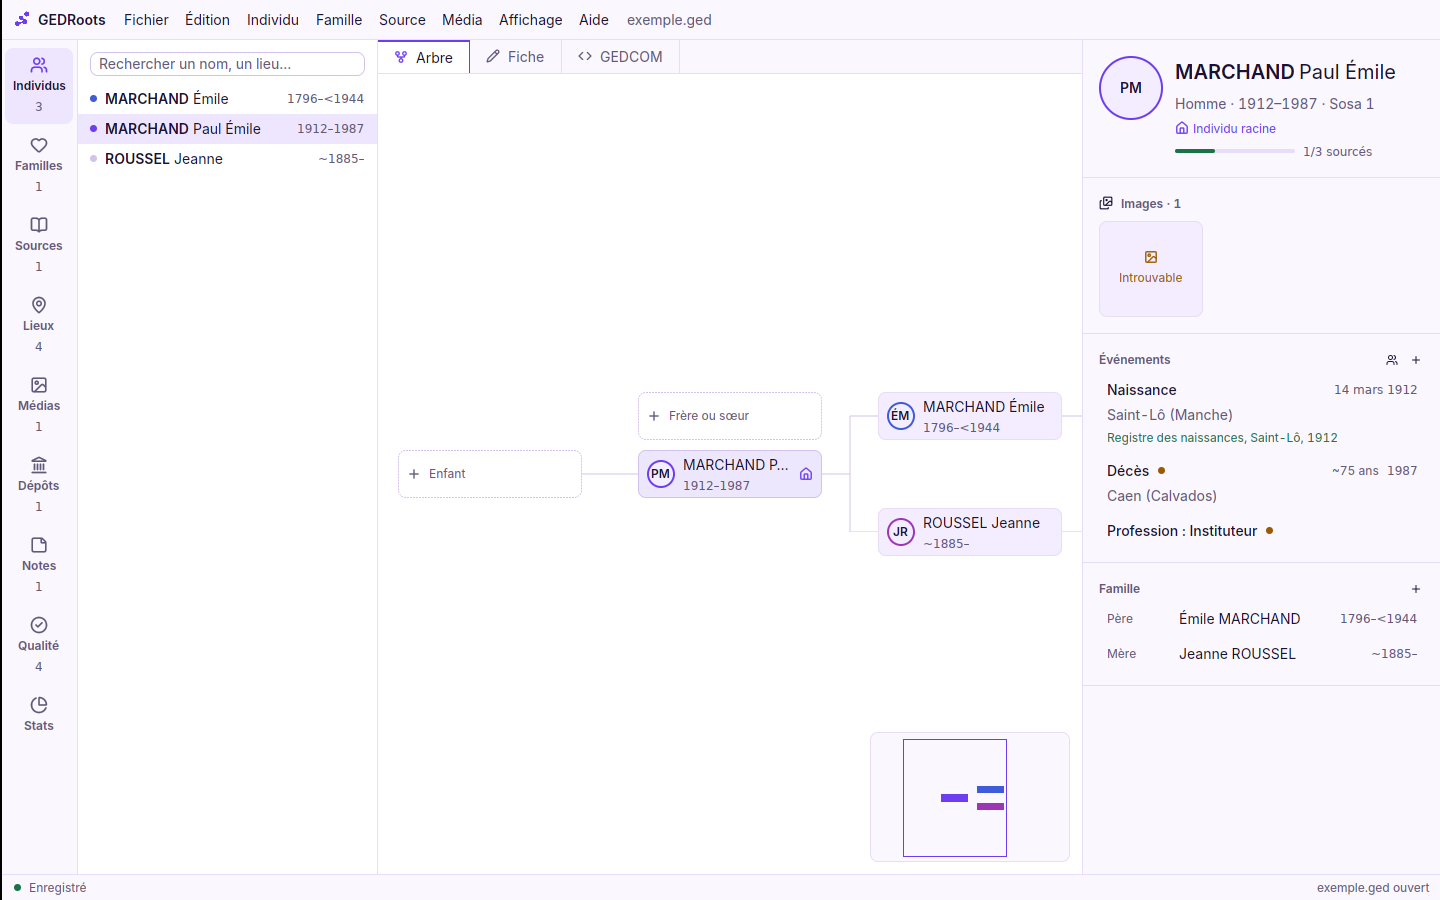
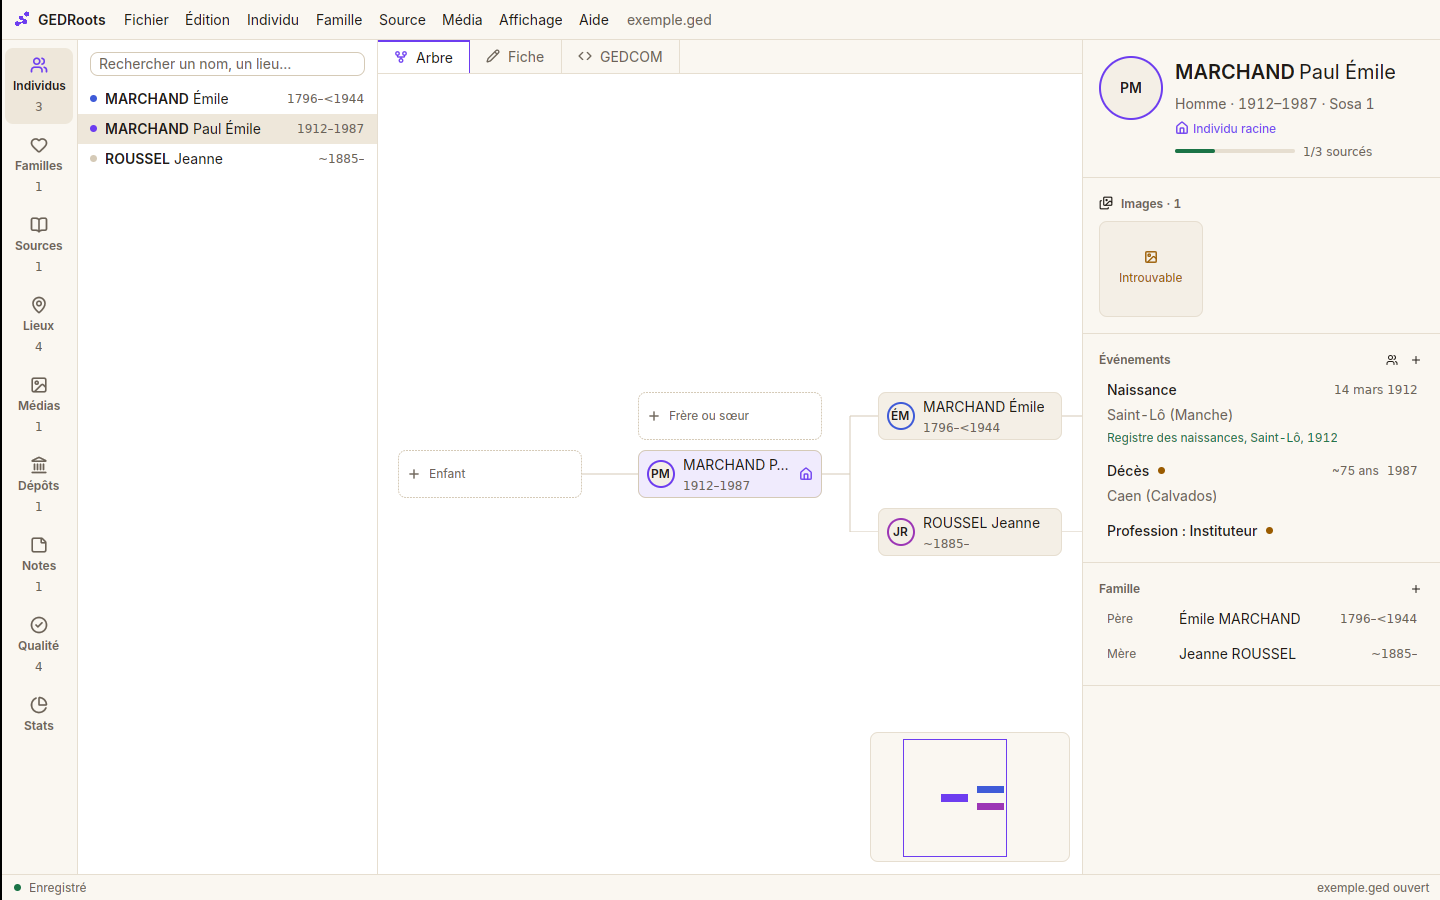
Fonds neutres (blanc et ocre, gris et noir), violet en accent seulement ; design.md à la racine
Claude-Session: https://claude.ai/code/session_01Y6gEeX7rZbAy25R2Bd5JVX

diff --git a/crates/gedroots/src/theme.rs b/crates/gedroots/src/theme.rs
@@ -1,6 +1,7 @@
 //! Design system GEDRoots : jetons de couleur (clair / sombre), typographie, espacements et rayons.
+//! Fonds neutres (blanc et ocre en clair, gris et noir en sombre) ; le violet n'est qu'un accent.
 //!
-//! Les valeurs viennent du kit de marque v1.0 (`docs/design-system.md`). Les vues n'emploient jamais
+//! Les valeurs viennent du kit de marque v1.0 (`design.md`). Les vues n'emploient jamais
 //! de couleur en dur : elles passent par les fonctions de ce module, qui lisent la palette du mode
 //! courant. Le mode suit l'apparence du système (`sync`), et chaque changement redessine les fenêtres.
 
@@ -39,13 +40,13 @@ struct Palette {
 
 const LIGHT: Palette = Palette {
     bg: 0xFFFFFF,
-    panel: 0xFAF7FF,
-    surface: 0xF3EDFF,
-    hover: 0xEEE5FF,
-    border: 0xE7DDF6,
-    border_strong: 0xD3C3EC,
-    text: 0x1B1133,
-    muted: 0x625878,
+    panel: 0xFAF7F1,
+    surface: 0xF4EFE6,
+    hover: 0xEEE7DA,
+    border: 0xE6DED0,
+    border_strong: 0xD5CAB7,
+    text: 0x1F1B16,
+    muted: 0x6B6257,
     accent: 0x6D3DF0,
     accent_hover: 0x5B2BDD,
     accent_pressed: 0x4C21B8,
@@ -58,18 +59,18 @@ const LIGHT: Palette = Palette {
 };
 
 const DARK: Palette = Palette {
-    bg: 0x160E2B,
-    panel: 0x1B1133,
-    surface: 0x251545,
-    hover: 0x301D57,
-    border: 0x3A2858,
-    border_strong: 0x493266,
-    text: 0xF7F1FF,
-    muted: 0xC8B7DF,
+    bg: 0x141414,
+    panel: 0x1A1A1A,
+    surface: 0x222222,
+    hover: 0x2B2B2B,
+    border: 0x2E2E2E,
+    border_strong: 0x3D3D3D,
+    text: 0xECECEC,
+    muted: 0xA3A3A3,
     accent: 0xB997FF,
     accent_hover: 0xC8AAFF,
     accent_pressed: 0xA77CF6,
-    on_accent: 0x1B1133,
+    on_accent: 0x1A1A1A,
     paternal: 0x8FA2FF,
     maternal: 0xE39BF0,
     ok: 0x6FD3A0,
@@ -130,7 +131,7 @@ pub fn accent() -> Hsla {
     c(p().accent)
 }
 pub fn accent_soft() -> Hsla {
-    with_alpha(accent(), if is_dark() { 0.18 } else { 0.12 })
+    with_alpha(accent(), if is_dark() { 0.16 } else { 0.10 })
 }
 pub fn on_accent() -> Hsla {
     c(p().on_accent)
@@ -152,19 +153,19 @@ pub fn warn() -> Hsla {
 pub fn danger() -> Hsla {
     c(p().danger)
 }
-/// Voile sous les fenêtres modales (encre de marque translucide).
+/// Voile sous les fenêtres modales.
 pub fn scrim() -> Hsla {
-    with_alpha(c(0x1B1133), if is_dark() { 0.6 } else { 0.4 })
+    with_alpha(c(0x000000), if is_dark() { 0.55 } else { 0.35 })
 }
 /// Fond des visionneuses d'images : sombre dans les deux modes, pour juger les documents.
 pub fn viewer() -> Hsla {
-    c(0x120B24)
+    c(0x0E0E0E)
 }
 
 /// Sur une image (cadres et étiquettes posés sur une photo ou un acte) : couleurs du mode sombre,
-/// quel que soit le mode, avec un fond d'étiquette encre.
+/// quel que soit le mode, sur un fond d'étiquette noir translucide.
 pub fn image_label_bg() -> Hsla {
-    with_alpha(c(0x1B1133), 0.75)
+    with_alpha(c(0x000000), 0.72)
 }
 pub fn image_text() -> Hsla {
     c(DARK.text)

diff --git a/design.md b/design.md
@@ -1,17 +1,18 @@
 # Design system GEDRoots
 
 Tiré du kit de marque GEDRoots v1.0 (« graphe organique, minimaliste, violet »). Le code
-de référence est [`crates/gedroots/src/theme.rs`](../crates/gedroots/src/theme.rs) : les vues
+de référence est [`crates/gedroots/src/theme.rs`](crates/gedroots/src/theme.rs) : les vues
 n'écrivent jamais de couleur, de rayon ni de police en dur, elles passent par ses jetons.
 
 | Clair | Sombre |
 |---|---|
-| ![Thème clair](capture-theme-clair.png) | ![Thème sombre](capture-theme-sombre.png) |
+| ![Thème clair](docs/capture-theme-clair.png) | ![Thème sombre](docs/capture-theme-sombre.png) |
 
 ## Principes
 
-- **Sobre** : une seule couleur forte, le violet primaire, réservée aux actions, liens et
-  sélections. Pas de dégradé sur les composants ; les grands aplats de violet sont évités.
+- **Fonds neutres, une pointe de violet** : les fonds restent blanc et ocre en clair, gris et
+  noir en sombre. Le violet primaire n'apparaît que par touches : action principale, lien,
+  sélection, symbole de marque. Jamais de fond ni de grand aplat violet, pas de dégradé.
 - **Commandes dans les menus** : pas de barre d'outils. Les seuls boutons visibles sont les
   petits « + » des en-têtes de section et les emplacements pointillés de l'arbre.
 - **Pas de texte explicatif** : un titre par élément ; les exemples de format vont dans le
@@ -26,32 +27,34 @@ force (captures, tests).
 
 | Jeton (`theme::`) | Rôle | Clair | Sombre |
 |---|---|---|---|
-| `bg()` | Canevas principal | `#FFFFFF` | `#160E2B` |
-| `panel()` | Barres, panneaux latéraux | `#FAF7FF` | `#1B1133` |
-| `surface()` | Cartes, champs | `#F3EDFF` | `#251545` |
-| `hover()` | Survol, sélection discrète | `#EEE5FF` | `#301D57` |
-| `border()` | Séparateurs | `#E7DDF6` | `#3A2858` |
-| `border_strong()` | Contours de champs, cases | `#D3C3EC` | `#493266` |
-| `text()` | Texte principal (Ink) | `#1B1133` | `#F7F1FF` |
-| `muted()` | Texte secondaire | `#625878` | `#C8B7DF` |
-| `accent()` | Primaire : actions, liens, sélection | `#6D3DF0` | `#B997FF` |
+| `bg()` | Canevas principal | `#FFFFFF` | `#141414` |
+| `panel()` | Barres, panneaux latéraux | `#FAF7F1` | `#1A1A1A` |
+| `surface()` | Cartes, champs | `#F4EFE6` | `#222222` |
+| `hover()` | Survol, sélection discrète | `#EEE7DA` | `#2B2B2B` |
+| `border()` | Séparateurs | `#E6DED0` | `#2E2E2E` |
+| `border_strong()` | Contours de champs, cases | `#D5CAB7` | `#3D3D3D` |
+| `text()` | Texte principal | `#1F1B16` | `#ECECEC` |
+| `muted()` | Texte secondaire | `#6B6257` | `#A3A3A3` |
+| `accent()` | Violet : actions, liens, sélection | `#6D3DF0` | `#B997FF` |
 | — survol / pressé | Boutons primaires | `#5B2BDD` / `#4C21B8` | `#C8AAFF` / `#A77CF6` |
-| `on_accent()` | Texte sur le primaire | `#FFFFFF` | `#1B1133` |
-| `accent_soft()` | Ligne sélectionnée | primaire 12 % | primaire 18 % |
+| `on_accent()` | Texte sur le violet | `#FFFFFF` | `#1A1A1A` |
+| `accent_soft()` | Ligne sélectionnée | violet 10 % | violet 16 % |
 | `paternal()` | Lignée paternelle | `#3F5BD8` | `#8FA2FF` |
 | `maternal()` | Lignée maternelle | `#9C36B5` | `#E39BF0` |
 | `ok()` | Succès, « sourcé » | `#1A7346` | `#6FD3A0` |
 | `warn()` | À vérifier | `#9A5B00` | `#F0B35A` |
 | `danger()` | Erreur, suppression | `#C42B48` | `#F2828E` |
-| `scrim()` | Voile sous les modales | Ink 40 % | Ink 60 % |
-| `viewer()` | Fond des visionneuses d'actes | `#120B24` | `#120B24` |
-| `image_*()` | Cadres et étiquettes posés sur une photo | couleurs sombres, fond Ink 75 % | idem |
+| `scrim()` | Voile sous les modales | noir 35 % | noir 55 % |
+| `viewer()` | Fond des visionneuses d'actes | `#0E0E0E` | `#0E0E0E` |
+| `image_*()` | Cadres et étiquettes posés sur une photo | couleurs sombres, fond noir 72 % | idem |
 
-Le de cujus (Sosa 1) prend le primaire ; les deux lignées restent dans la gamme violette
+Les neutres clairs tirent vers l'ocre, les sombres sont des gris purs.
+
+Le de cujus (Sosa 1) prend le violet ; les deux lignées restent dans la gamme violette
 (indigo côté père, orchidée côté mère) au lieu d'introduire d'autres couleurs fortes.
 
 Contrastes (WCAG) : tout texte courant dépasse 4,5:1 sur `bg`, `panel` et `surface` dans les
-deux modes (primaire sur blanc 5,9:1 ; muted 6,6:1 ; texte sombre 16,8:1). Les couleurs d'état
+deux modes (violet sur blanc 5,9:1 ; muted 5,2:1 sur surface ; texte sombre 13,5:1 sur surface). Les couleurs d'état
 et de lignée dépassent aussi 4,5:1 sur `bg`.
 
 Le thème des composants gpui-component (boutons, listes, menus, tableaux, champs) est rempli

diff --git a/README.md b/README.md
@@ -5,7 +5,7 @@ Logiciel de généalogie **libre et local**, écrit en Rust avec [GPUI](https://
 sur votre disque : pas de base de données, pas de compte, pas de cloud.
 
 L'interface reprend les fonctions principales d'[Ancestris](https://www.ancestris.org)
-et suit le [design system GEDRoots](docs/design-system.md) (violet, police Inter, clair ou sombre selon le système).
+et suit le [design system GEDRoots](design.md) (fonds neutres et touches de violet, police Inter, clair ou sombre selon le système).
 
 ![Arbre d'ascendance](docs/capture-arbre.png)
 
